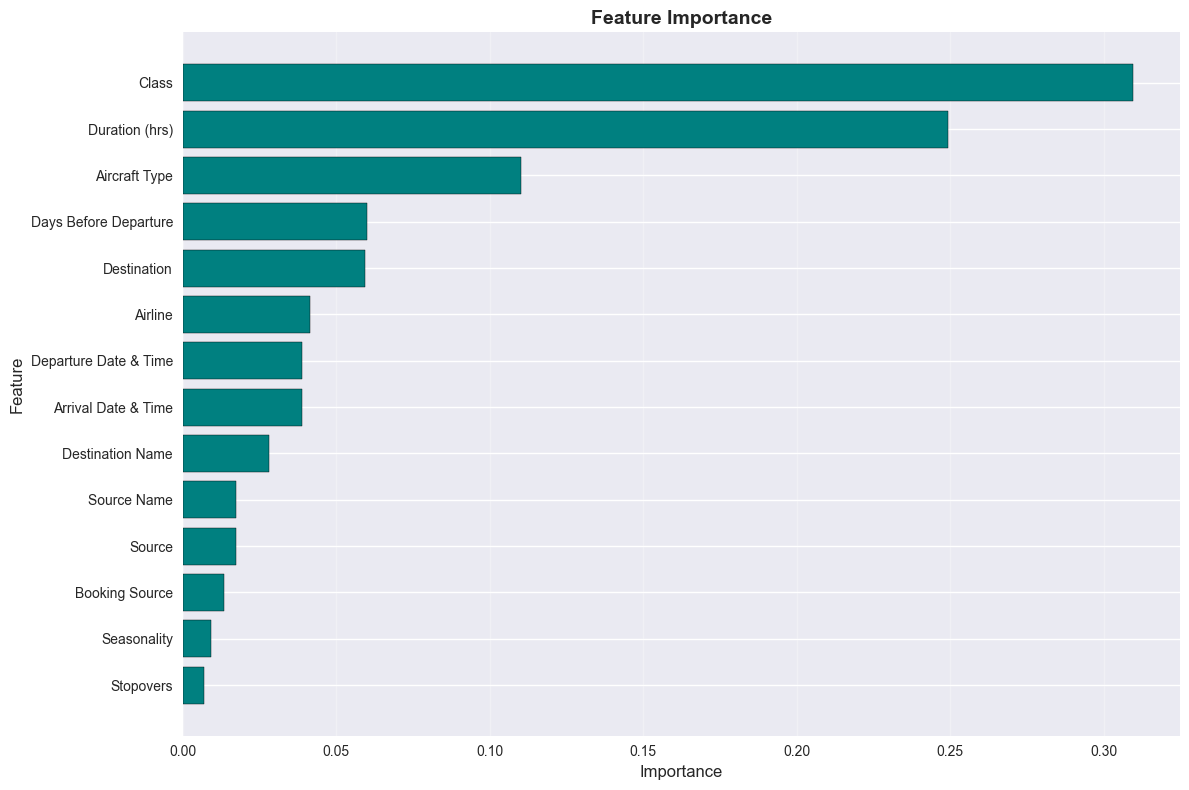
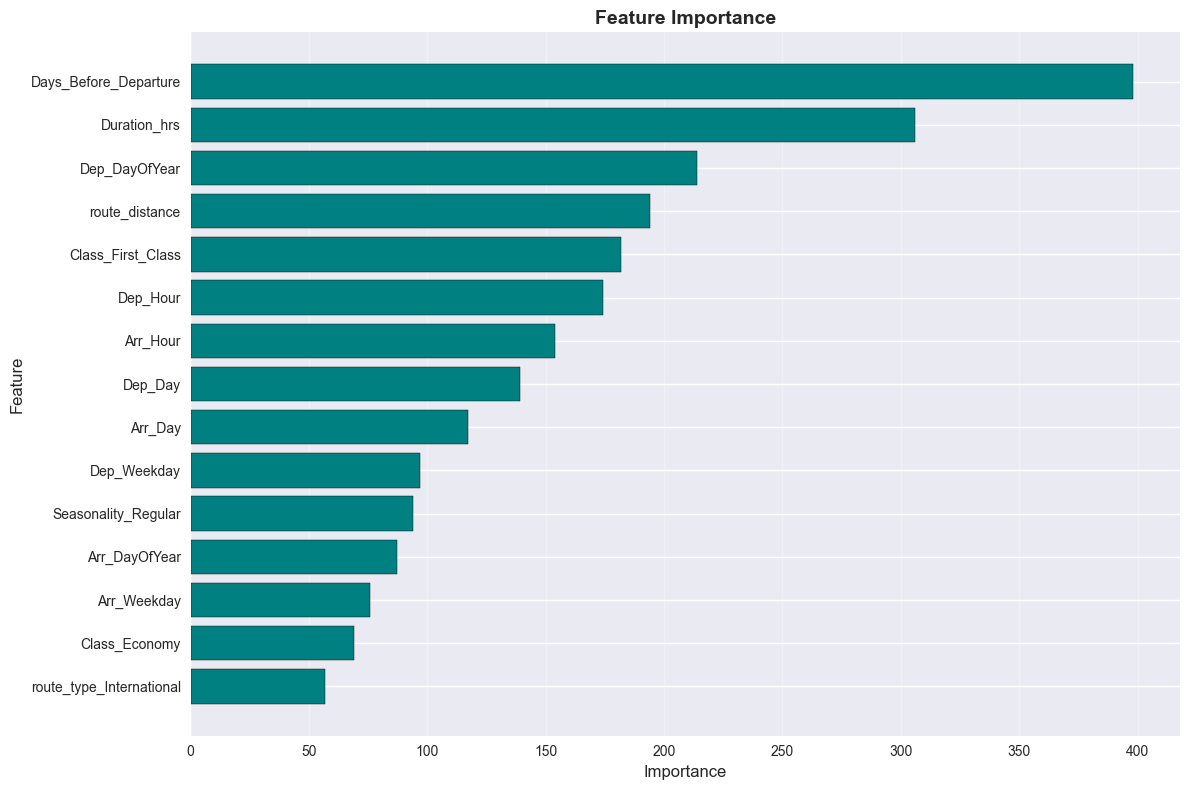
chore: refactored training model to incorporate the class changes

diff --git a/src/app/model_service.py b/src/app/model_service.py
@@ -102,6 +102,7 @@ class ModelService:
                 user_input['departure_datetime']
             )
             
+            # Determine seasonality
             seasonality = determine_seasonality(user_input['departure_datetime'])
             
             # Create feature dictionary matching EXACT CSV columns
@@ -113,16 +114,13 @@ class ModelService:
                 'Source Name': user_input.get('source_name', ''),
                 'Destination': user_input['destination'],
                 'Destination Name': user_input.get('destination_name', ''),
-                'Departure Date & Time': user_input['departure_datetime'],  # Keep as datetime!
-                'Arrival Date & Time': user_input['arrival_datetime'],      # Keep as datetime!
+                'Departure Date & Time': user_input['departure_datetime'],  # Will be decomposed
+                'Arrival Date & Time': user_input['arrival_datetime'],      # Will be decomposed
                 'Duration (hrs)': duration_hrs,
                 'Stopovers': user_input['stopovers'],
                 'Aircraft Type': user_input['aircraft_type'],
                 'Class': user_input['travel_class'],
                 'Booking Source': user_input['booking_source'],
-                # 'Base Fare (BDT)' - REMOVED to avoid data leakage
-                # 'Tax & Surcharge (BDT)' - REMOVED to avoid data leakage
-                # 'Total Fare (BDT)' - this is the TARGET, should NOT be included
                 'Seasonality': seasonality,
                 'Days Before Departure': days_before
             }
@@ -182,35 +180,76 @@ class ModelService:
         # Initialize feature engineer 
         engineer = FeatureEngineer()
         
-        # CRITICAL: Convert datetime columns to strings FIRST
-        # The model was trained with datetime columns converted to strings then label-encoded
-        datetime_cols = df_processed.select_dtypes(include=['datetime', 'datetime64']).columns.tolist()
-        for col in datetime_cols:
-            df_processed[col] = df_processed[col].astype(str)
+        # --- FEATURE ENGINEERING MIRRORING MAIN.PY ---
         
-        # Now encode categorical features (including the stringified datetime columns)
+        # --- FEATURE ENGINEERING MIRRORING MAIN.PY ---
+        
+        # 1. TEMPORAL FEATURES (Departure)
+        df_processed = engineer.create_temporal_features(df_processed, 'Departure Date & Time')
+        df_processed = df_processed.rename(columns={
+            'month': 'Dep_Month', 'day': 'Dep_Day', 'weekday': 'Dep_Weekday', 
+            'day_of_year': 'Dep_DayOfYear', 'season': 'Dep_Season', 
+            'is_weekend': 'Dep_IsWeekend', 'hour': 'Dep_Hour'
+        })
+        
+        # 2. TEMPORAL FEATURES (Arrival)
+        df_processed = engineer.create_temporal_features(df_processed, 'Arrival Date & Time')
+        df_processed = df_processed.rename(columns={
+            'month': 'Arr_Month', 'day': 'Arr_Day', 'weekday': 'Arr_Weekday', 
+            'day_of_year': 'Arr_DayOfYear', 'season': 'Arr_Season', 
+            'is_weekend': 'Arr_IsWeekend', 'hour': 'Arr_Hour'
+        })
+
+        # 3. ROUTE FEATURES (New)
+        df_processed = engineer.create_route_features(df_processed)
+        
+        # 4. DROP RAW DATETIME COLUMNS
+        cols_to_drop = ['Departure Date & Time', 'Arrival Date & Time']
+        df_processed = engineer.drop_features(df_processed, cols_to_drop)
+        
+        # Apply the feature engineering to the training sample too so columns match
+        if training_sample is not None:
+            # Departure Features
+            training_sample = engineer.create_temporal_features(training_sample, 'Departure Date & Time')
+            training_sample = training_sample.rename(columns={
+                'month': 'Dep_Month', 'day': 'Dep_Day', 'weekday': 'Dep_Weekday', 
+                'day_of_year': 'Dep_DayOfYear', 'season': 'Dep_Season', 
+                'is_weekend': 'Dep_IsWeekend', 'hour': 'Dep_Hour'
+            })
+            
+            # Arrival Features
+            training_sample = engineer.create_temporal_features(training_sample, 'Arrival Date & Time')
+            training_sample = training_sample.rename(columns={
+                'month': 'Arr_Month', 'day': 'Arr_Day', 'weekday': 'Arr_Weekday', 
+                'day_of_year': 'Arr_DayOfYear', 'season': 'Arr_Season', 
+                'is_weekend': 'Arr_IsWeekend', 'hour': 'Arr_Hour'
+            })
+
+            # Route Features
+            training_sample = engineer.create_route_features(training_sample)
+            
+            # Drop columns
+            training_sample = engineer.drop_features(training_sample, cols_to_drop)
+        
+        # Now encode categorical features
         categorical_cols = df_processed.select_dtypes(include=['object']).columns.tolist()
         
         if len(categorical_cols) > 0 and training_sample is not None:
-            # Also convert datetime columns in training sample to strings
-            training_datetime_cols = training_sample.select_dtypes(include=['datetime', 'datetime64']).columns.tolist()
-            for col in training_datetime_cols:
-                training_sample[col] = training_sample[col].astype(str)
-            
             # Fit on training sample
             training_cat_cols = [col for col in categorical_cols if col in training_sample.columns]
             if len(training_cat_cols) > 0:
+                # Use ONE-HOT Encoding (Changed from Label)
                 _ = engineer.encode_categorical_features(
                     training_sample,
                     training_cat_cols, 
-                    method='label', 
+                    method='onehot', 
                     fit=True
                 )
                 # Transform our input
                 df_processed = engineer.encode_categorical_features(
                     df_processed, 
                     categorical_cols, 
-                    method='label', 
+                    method='onehot', 
                     fit=False
                 )
         
@@ -236,6 +275,22 @@ class ModelService:
                     method='standard', 
                     fit=False
                 )
+
+        # SANITIZE COLUMN NAMES (Required for XGBoost)
+        import re
+        def sanitize_colnames(df):
+            new_cols = []
+            for col in df.columns:
+                # Replace special chars with underscore, keep alphanumeric
+                new_col = re.sub(r'[^a-zA-Z0-9_]', '_', col)
+                # Remove repeated underscores
+                new_col = re.sub(r'_+', '_', new_col)
+                # Remove leading/trailing underscores
+                new_col = new_col.strip('_')
+                new_cols.append(new_col)
+            return new_cols
+            
+        df_processed.columns = sanitize_colnames(df_processed)
         
         return df_processed
     

diff --git a/src/features/feature_engineer.py b/src/features/feature_engineer.py
@@ -69,6 +69,7 @@ class FeatureEngineer:
         df['day'] = df[date_column].dt.day
         df['weekday'] = df[date_column].dt.dayofweek  # 0=Monday, 6=Sunday
         df['day_of_year'] = df[date_column].dt.dayofyear
+        df['hour'] = df[date_column].dt.hour
         
         # Season mapping (Northern Hemisphere - adjust if needed)
         df['season'] = df['month'].map({
@@ -81,8 +82,74 @@ class FeatureEngineer:
         # Is weekend flag
         df['is_weekend'] = (df['weekday'] >= 5).astype(int)
         
-        logger.info(f"Created temporal features from '{date_column}': month, day, weekday, season, is_weekend")
+        logger.info(f"Created temporal features from '{date_column}': month, day, weekday, day_of_year, hour, season, is_weekend")
         
+        logger.info(f"Created temporal features from '{date_column}': month, day, weekday, day_of_year, hour, season, is_weekend")
+        
+        return df
+
+    def create_route_features(self, df: pd.DataFrame) -> pd.DataFrame:
+        """
+        Create route-based features including distance and type.
+        
+        Args:
+            df: Input DataFrame with 'Source' and 'Destination' columns
+            
+        Returns:
+            DataFrame with 'route_distance' and 'route_type' features
+        """
+        df = df.copy()
+        
+        # Import coordinates here to avoid circular imports if any
+        from src.app.utils import AIRPORT_COORDINATES
+        from geopy.distance import geodesic
+        
+        def calculate_distance(row):
+            source_code = row.get('Source')
+            dest_code = row.get('Destination')
+            
+            if source_code in AIRPORT_COORDINATES and dest_code in AIRPORT_COORDINATES:
+                return geodesic(AIRPORT_COORDINATES[source_code], AIRPORT_COORDINATES[dest_code]).km
+            return np.nan
+
+        # Calculate Distance
+        if 'Source' in df.columns and 'Destination' in df.columns:
+            # Check if geopy is available, otherwise use simple euclidian approximation or lookup table
+            # Since geopy might not be installed, let's use a haversine implementation to be safe and dependency-free
+            
+            def haversine_distance(lat1, lon1, lat2, lon2):
+                R = 6371  # Earth radius in km
+                phi1, phi2 = np.radians(lat1), np.radians(lat2)
+                dphi = np.radians(lat2 - lat1)
+                dlambda = np.radians(lon2 - lon1)
+                
+                a = np.sin(dphi/2)**2 + np.cos(phi1)*np.cos(phi2) * np.sin(dlambda/2)**2
+                c = 2 * np.arctan2(np.sqrt(a), np.sqrt(1-a))
+                return R * c
+
+            def get_dist(row):
+                src = AIRPORT_COORDINATES.get(row['Source'])
+                dst = AIRPORT_COORDINATES.get(row['Destination'])
+                if src and dst:
+                    return haversine_distance(src[0], src[1], dst[0], dst[1])
+                return 0 # Default to 0 if unknown
+
+            df['route_distance'] = df.apply(get_dist, axis=1)
+            logger.info("Created 'route_distance' feature")
+            
+            # Route Type (International if Source or Dest is not in Bangladesh)
+            # BD Airports: DAC, CGP, ZYL, CXB, JSR, BZL, RJH, SPD
+            bd_airports = ['DAC', 'CGP', 'ZYL', 'CXB', 'JSR', 'BZL', 'RJH', 'SPD']
+            
+            df['route_type'] = df.apply(
+                lambda x: 'Domestic' if (x['Source'] in bd_airports and x['Destination'] in bd_airports) else 'International', 
+                axis=1
+            )
+            logger.info("Created 'route_type' feature")
+            
+        else:
+            logger.warning("Source or Destination columns missing, skipping route features")
+            
         return df
     
     def encode_categorical_features(self, df: pd.DataFrame, columns: List[str], 
@@ -116,17 +183,22 @@ class FeatureEngineer:
                     self.encoders[col] = list(dummies.columns)
                     df = pd.concat([df, dummies], axis=1)
                 else:
-                    # Use existing encoder
-                    dummies = pd.get_dummies(df[col], prefix=col, drop_first=True)
-                    # Ensure same columns as training
-                    for encoded_col in self.encoders[col]:
-                        if encoded_col not in dummies.columns:
-                            dummies[encoded_col] = 0
-                    dummies = dummies[self.encoders[col]]
+                    # Robust inference encoding
+                    # Create empty DataFrame with expected columns learned from training
+                    dummies = pd.DataFrame(0, index=df.index, columns=self.encoders[col], dtype=int)
+                    
+                    # Fill 1s where the category matches a column
+                    for idx, value in df[col].items():
+                        # Construct the column name that would have been created
+                        target_col = f"{col}_{value}"
+                        
+                        if target_col in dummies.columns:
+                            dummies.at[idx, target_col] = 1
+                            
                     df = pd.concat([df, dummies], axis=1)
                 
                 df = df.drop(columns=[col])
-                logger.info(f"OneHot encoded '{col}' into {len(self.encoders[col])} features")
+                logger.info(f"OneHot encoded '{col}' using fitted encoder")
             
             elif method == 'label':
                 if fit:

diff --git a/src/app/utils.py b/src/app/utils.py
@@ -18,6 +18,30 @@ AIRLINES = [
     'Qatar Airways', 'Vistara', 'Turkish Airlines', 'Lufthansa', 'Air Arabia'
 ]
 
+# Airport coordinates (Lat, Lon) for distance calculation
+AIRPORT_COORDINATES = {
+    'CXB': (21.4523, 91.9636),   # Cox's Bazar
+    'CCU': (22.6547, 88.4467),   # Kolkata
+    'BZL': (22.8010, 90.3015),   # Barisal
+    'CGP': (22.2500, 91.8133),   # Chittagong
+    'ZYL': (24.9632, 91.8665),   # Sylhet
+    'KUL': (2.7456, 101.7072),   # Kuala Lumpur
+    'SPD': (25.7592, 88.9080),   # Saidpur
+    'YYZ': (43.6777, -79.6248),  # Toronto
+    'RJH': (24.4441, 88.6186),   # Rajshahi
+    'DAC': (23.8433, 90.4055),   # Dhaka
+    'JSR': (23.1837, 89.1610),   # Jessore
+    'LHR': (51.4700, -0.4543),   # London
+    'DEL': (28.5562, 77.1000),   # Delhi
+    'IST': (41.2753, 28.7519),   # Istanbul
+    'DXB': (25.2532, 55.3657),   # Dubai
+    'SIN': (1.3644, 103.9915),   # Singapore
+    'BKK': (13.6900, 100.7501),  # Bangkok
+    'DOH': (25.2730, 51.6080),   # Doha
+    'JFK': (40.6413, -73.7781),  # New York
+    'JED': (21.6796, 39.1565)    # Jeddah
+}
+
 AIRPORTS = {
     'CXB': "Cox's Bazar Airport",
     'CCU': "Netaji Subhas Chandra Bose International Airport, Kolkata",

diff --git a/src/config/config.py b/src/config/config.py
@@ -71,10 +71,26 @@ DECISION_TREE_PARAMS = {
 }
 
 RANDOM_FOREST_PARAMS = {
-    'n_estimators': [50, 100, 200],
-    'max_depth': [10, 15, 20, None],
+    'n_estimators': [100, 200],
+    'max_depth': [10, 20, None],
     'min_samples_split': [2, 5],
     'min_samples_leaf': [1, 2]
+}
+
+XGBOOST_PARAMS = {
+    'n_estimators': [100, 200],
+    'learning_rate': [0.01, 0.1],
+    'max_depth': [3, 6, 10],
+    'subsample': [0.8, 1.0],
+    'colsample_bytree': [0.8, 1.0]
+}
+
+LIGHTGBM_PARAMS = {
+    'n_estimators': [100, 200],
+    'learning_rate': [0.01, 0.1],
+    'num_leaves': [31, 63],
+    'feature_fraction': [0.8, 1.0],
+    'bagging_fraction': [0.8, 1.0]
 }
 
 # Visualization parameters
